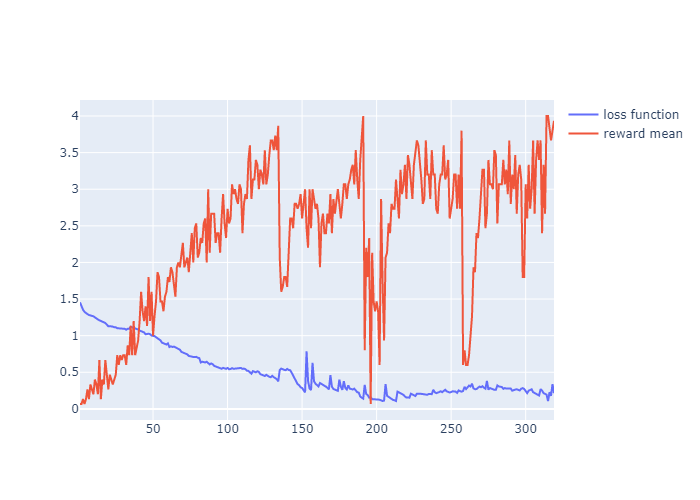
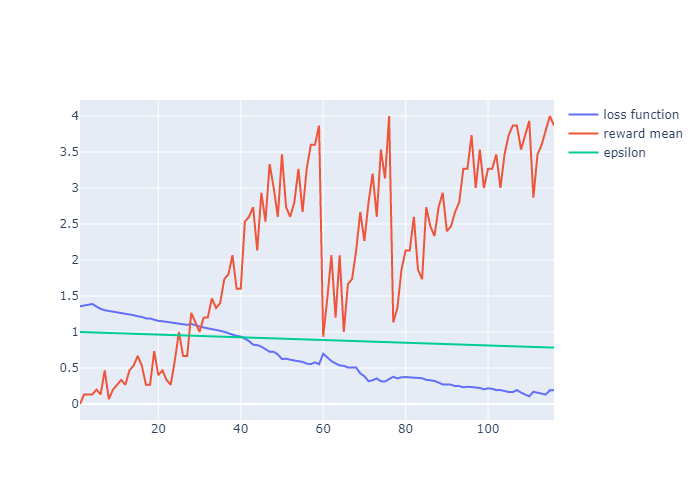
amended epsilon calculating and episodes threshold

diff --git a/PyTorch/maze solving/main.py b/PyTorch/maze solving/main.py
@@ -215,12 +215,13 @@ def train(episodeSnapshot):
     iterations = []
     loss_func_values = []
     reward_mean_values = []
+    epsilon_values = []
 
     iterations_count = 0
     last_snapshot_iteration = 0
-
+    
+    epsilon = 1
     for training_map in training_maps:
-        epsilon = 1
         elite_batch = []
                 
         for iter_no,batch in enumerate(iterate_batches(training_map.data, epsilon)):
@@ -229,9 +230,12 @@ def train(episodeSnapshot):
             elite_batch,obs,act,reward_bound = filter_batch(elite_batch+batch,PERCENTILE)
 
             if not elite_batch:
-                continue
+                if iter_no > EPISODES_THRESHOLD:
+                    break
+                else:
+                    continue
 
-            if iterations_count % 20 == 0 or abs(last_snapshot_iteration-iter_no) > 50:
+            if iter_no == 0 or abs(last_snapshot_iteration-iter_no) > 25:
                 episode = elite_batch[0]
                 episode_actions = list(map(lambda step:step.action,episode.steps))
                 episodeSnapshot.snapshot(episode_actions, episode.reward, training_map.path)
@@ -243,6 +247,7 @@ def train(episodeSnapshot):
             iterations.append(iterations_count)
             loss_func_values.append(loss_value)
             reward_mean_values.append(reward_mean)
+            epsilon_values.append(epsilon)
 
             print("%d: loss=%.3f, reward_mean=%.3f, reward_bound=%.3f, epsilon=%.3f" % (iter_no, loss_value, reward_mean, reward_bound, epsilon))
             
@@ -253,11 +258,12 @@ def train(episodeSnapshot):
                 break
 
             if epsilon > 0.01:
-                epsilon -= 0.001
+                epsilon -= 0.002
     
     fig = go.Figure()
     fig.add_trace(go.Scatter(x=iterations, y=loss_func_values, name='loss function'))
     fig.add_trace(go.Scatter(x=iterations, y=reward_mean_values, name='reward mean'))
+    fig.add_trace(go.Scatter(x=iterations, y=epsilon_values, name='epsilon'))
     
     fig.write_image("training_loss.png")
     agent.save_trained_model()
